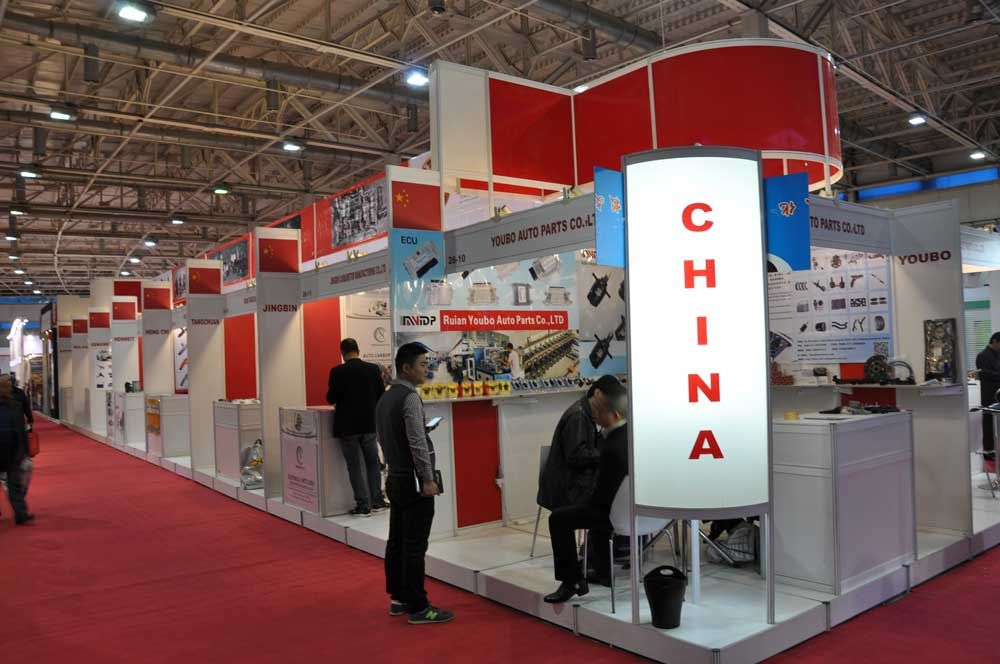
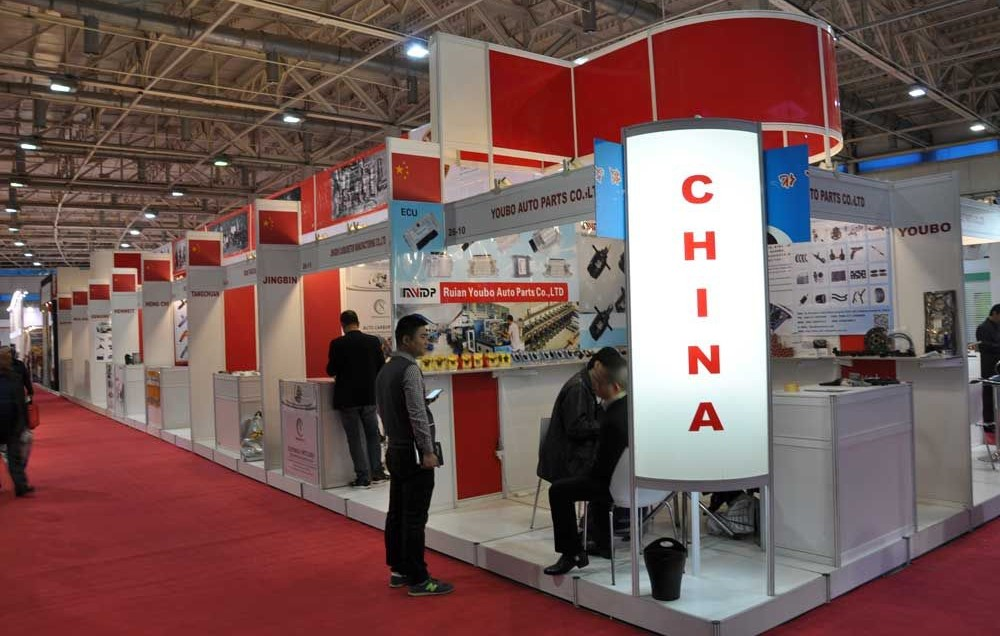
Update images and gallery layout in index.html
Replaced several images in the main gallery and updated the layout in index.html by commenting out some images, adding new ones, and reorganizing the structure for the WOOD STRUCTURE and SHELL SCHEME sections. Updated image files for 'Front (4).jpeg', 'img (12).jpg', and 'img (7).jpg' to reflect new content.

diff --git a/index.html b/index.html
@@ -336,38 +336,33 @@
 		<h2 style="text-align: center;font-family: 'Special Elite'; ">WOOD STRUCTURE</h2>
 		<div class="row1">
 			<div class="column1">
-				<img src="images/main/1.jpg" style="width: 100%;" alt="wooden">
-				<img src="images/main/122.jpg" style="width: 100%;" alt="wooden">
-				<img src="images/main/22.jpg" style="width: 100%;" alt="wooden">
+<!-- 				<img src="images/main/1.jpg" style="width: 100%;" alt="wooden">
+				<img src="images/main/122.jpg" style="width: 100%;" alt="wooden"> -->
+			<!-- 	<img src="images/main/22.jpg" style="width: 100%;" alt="wooden"> -->
 				<img src="images/main/img (2).jpg" style="width: 100%;" alt="wooden">
 				<img src="images/main/img (7).jpg" style="width: 100%;" alt="wooden">
 				<img src="images/main/shivini.jpeg" style="width: 100%;" alt="wooden">
-			</div>
-			<div class="column1">
+				<img src="images/main/Front (6).jpeg" style="width: 100%;" alt="Portfolio image">
 				<img src="images/main/virto.jpeg" style="width: 100%;" alt="Portfolio image">
-				<img src="images/main/33.jpg" style="width: 100%;" alt="Portfolio image">
+	<!-- 			<img src="images/main/33.jpg" style="width: 100%;" alt="Portfolio image">
 				<img src="images/main/44.jpg" style="width: 100%;" alt="Portfolio image">
-				<img src="images/main/55.jpg" style="width: 100%;" alt="Portfolio image">
+				<img src="images/main/55.jpg" style="width: 100%;" alt="Portfolio image"> -->
 				<img src="images/main/img (12).jpg" style="width: 100%;" alt="Portfolio image">
 				<img src="images/main/img (15).jpg" style="width: 100%;" alt="Portfolio image">
+				<img src="images/main/Front (4).jpeg" style="width: 100%;" alt="Portfolio image">
+				<img src="images/main/Front (10).jpeg" style="width: 100%;" alt="Portfolio image">
 			</div>
 			<div class="column1">
 				<img src="images/main/Front (1).jpeg" style="width: 100%;" alt="Portfolio image">
-				<img src="images/main/Front (10).jpeg" style="width: 100%;" alt="Portfolio image">
+				
 				<img src="images/main/Front (11).jpeg" style="width: 100%;" alt="Portfolio image">
 				<img src="images/main/Front (12).jpeg" style="width: 100%;" alt="Portfolio image">
 				<img src="images/main/Front (13).jpeg" style="width: 100%;" alt="Portfolio image">
-				<img src="images/main/Front (8).jpeg" style="width: 100%;" alt="Portfolio image">
-				<img src="images/main/Front (7).jpeg" style="width: 100%;" alt="Portfolio image">
-			</div>
-			<div class="column1">
+				<img src="images/main/Front (9).jpeg" style="width: 100%;" alt="Portfolio image">
 				<img src="images/main/Front (2).jpeg" style="width: 100%;" alt="Portfolio image">
 				<img src="images/main/Front (3).jpeg" style="width: 100%;" alt="Portfolio image">
-				<img src="images/main/Front (4).jpeg" style="width: 100%;" alt="Portfolio image">
 				<img src="images/main/Front (5).jpeg" style="width: 100%;" alt="Portfolio image">
-				<img src="images/main/Front (6).jpeg" style="width: 100%;" alt="Portfolio image">
-				<img src="images/main/Front (9).jpeg" style="width: 100%;" alt="Portfolio image">
-				
+							
 			</div>
 		</div>
 		<h2 style="text-align: center; font-family: 'Special Elite';">SHELL SCHEME</h2>
@@ -375,10 +370,12 @@
 			<div class="column1">
 				<img src="images/main/img (3).jpg" style="width: 100%;" alt="SHELL">
 				<img src="images/main/img (5).jpg" style="width: 100%;" alt="SHELL">
+				<img src="images/main/Front (7).jpeg" style="width: 100%;" alt="SHELL">
 			</div>
 			<div class="column1">
 				<img src="images/main/img (9).jpg" style="width: 100%;" alt="SHELL">
 				<img src="images/main/img (13).jpg" style="width: 100%;" alt="SHELL">
+				<img src="images/main/Front (8).jpeg" style="width: 100%;" alt="SHELL">
 			</div>
 		</div>
 		<h2 style="text-align: center; font-family: 'Special Elite';">EVENTS</h2>
